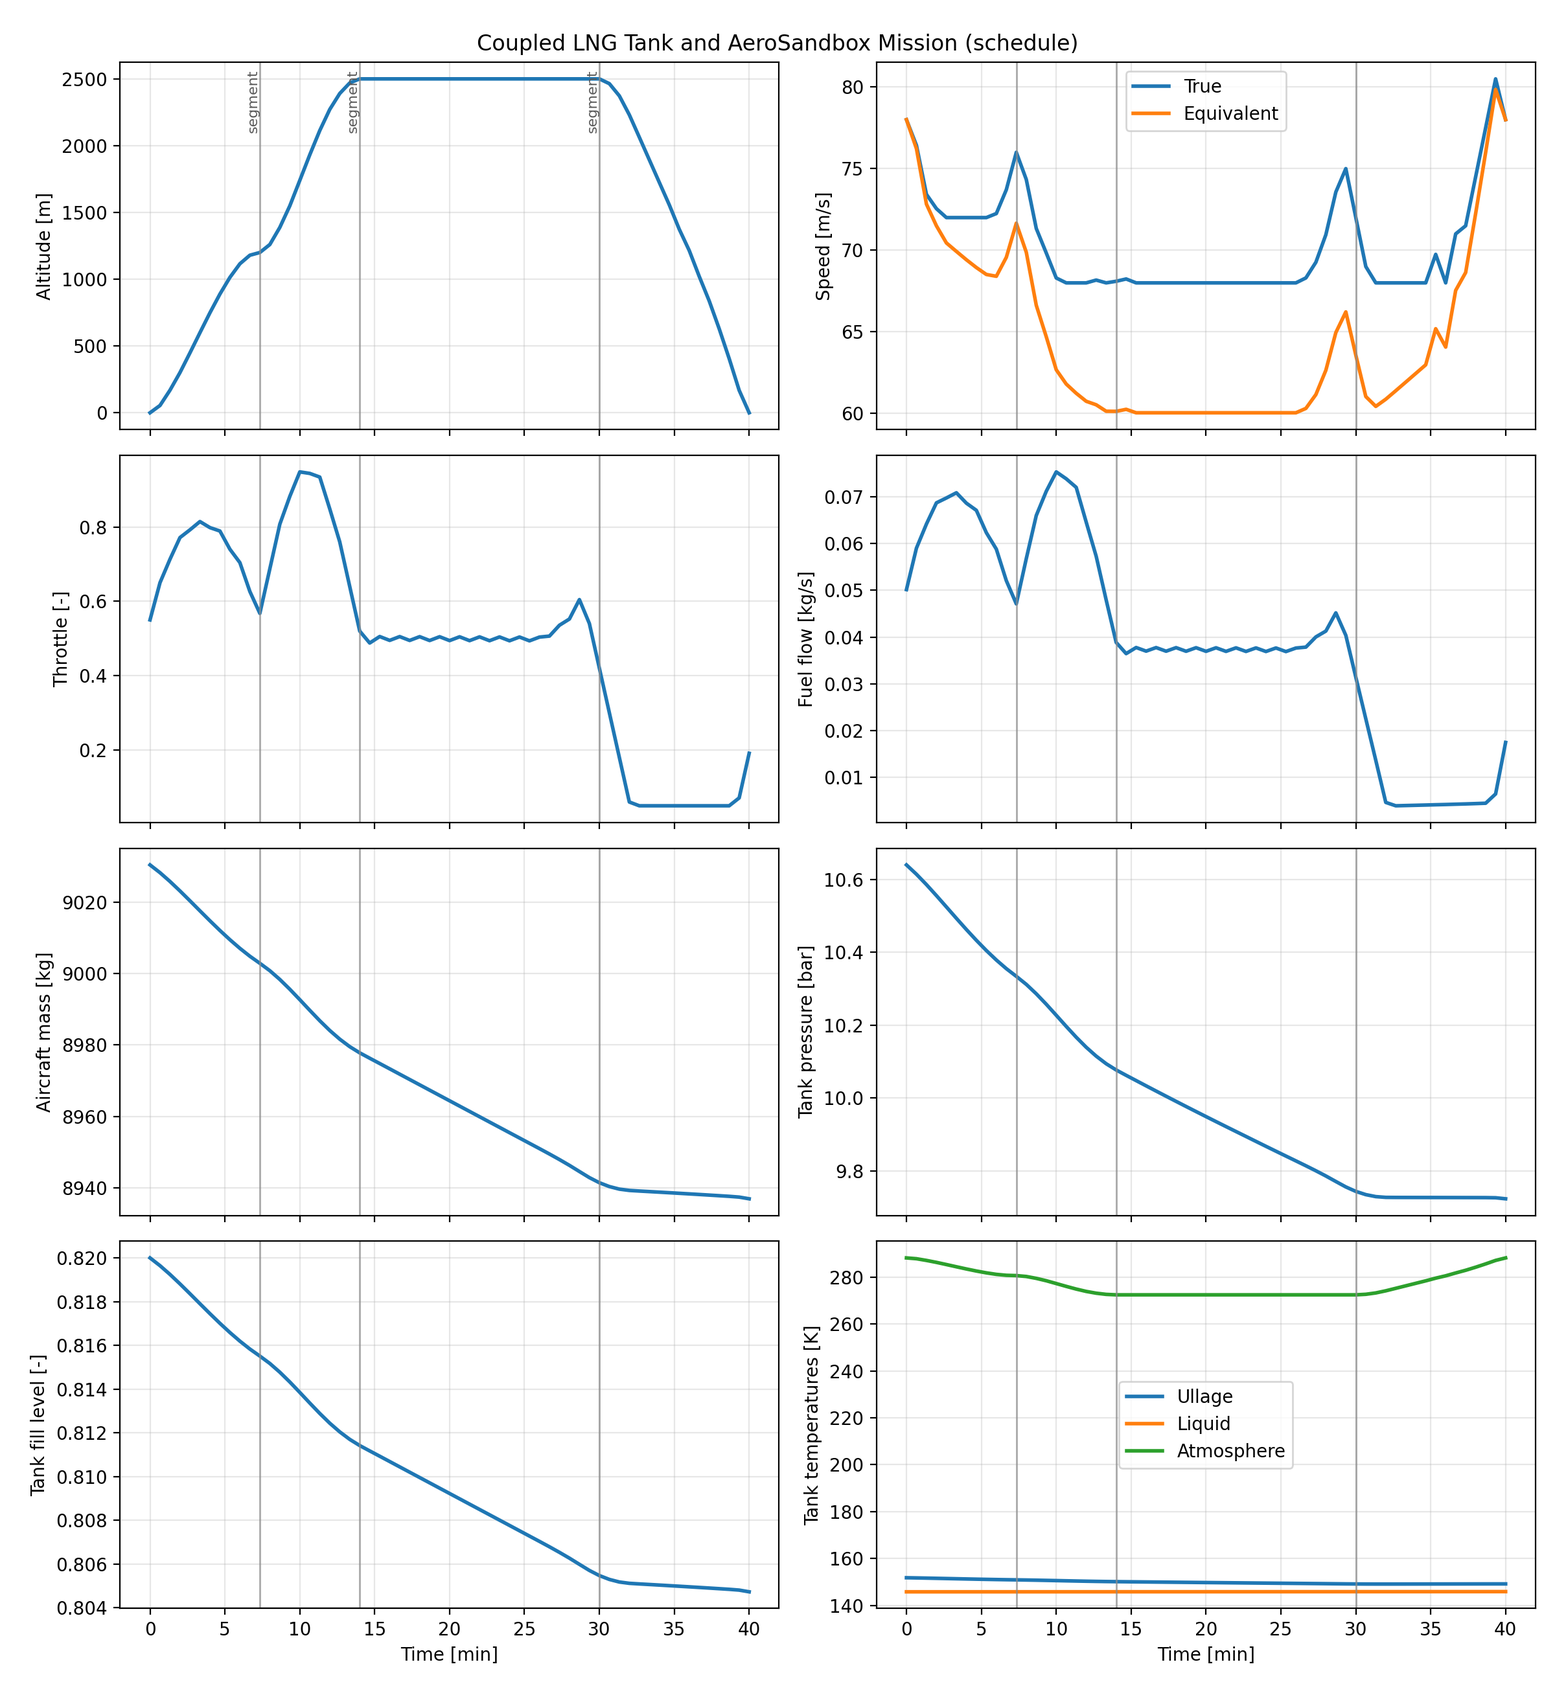
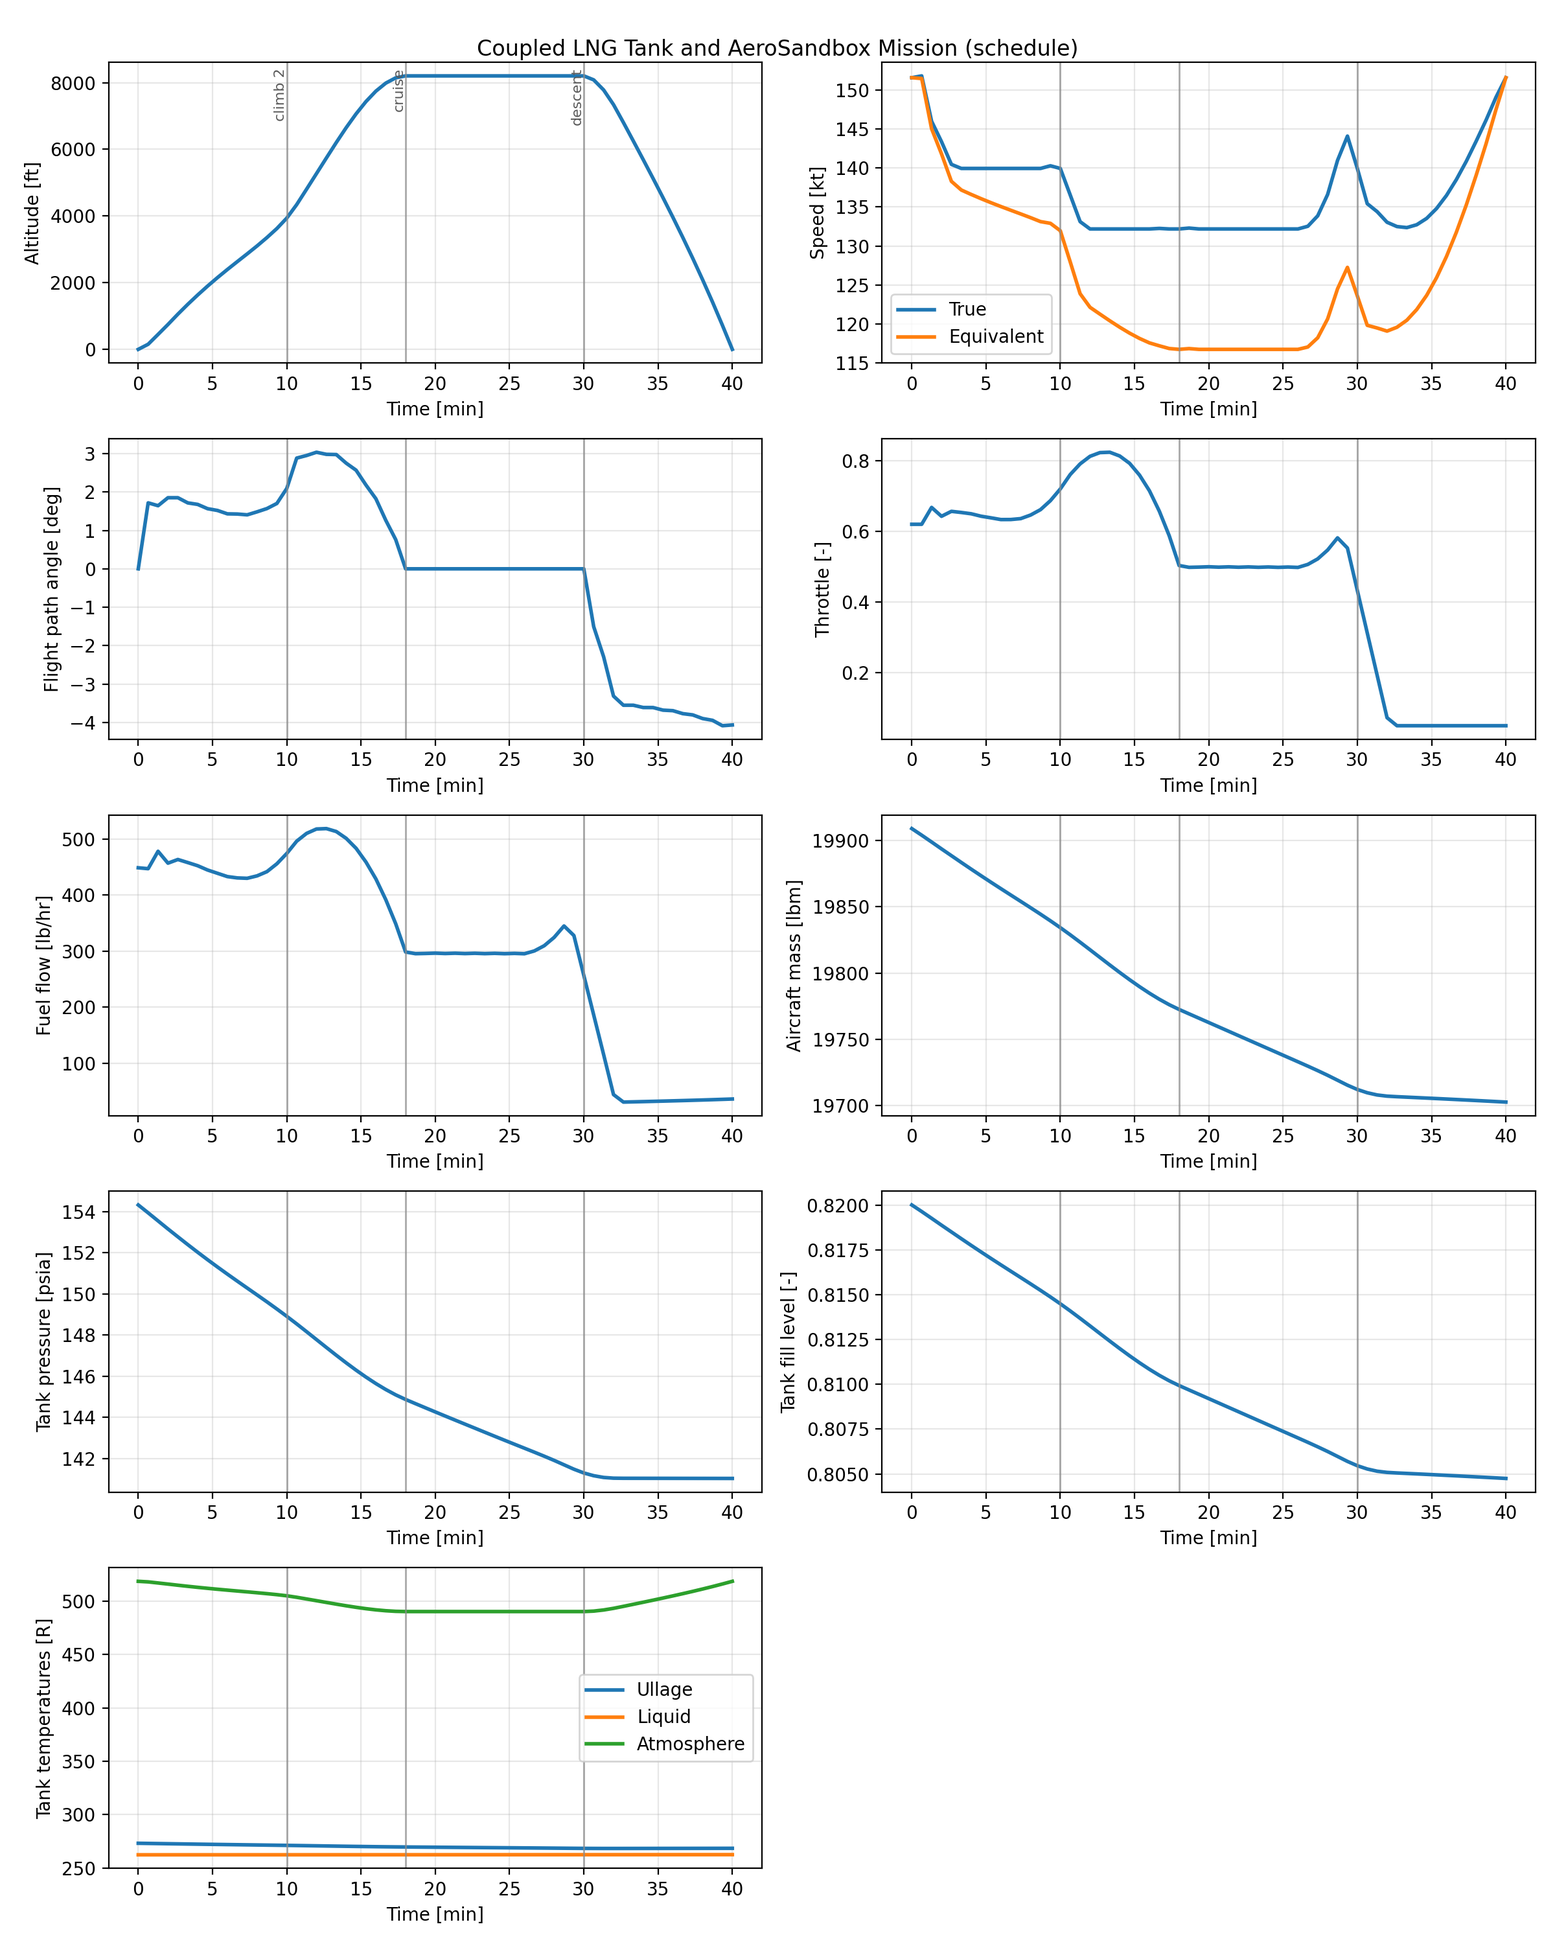
Refine AeroSandbox mission schedules

diff --git a/examples/coupled_lng_aerosandbox_mission.py b/examples/coupled_lng_aerosandbox_mission.py
@@ -32,6 +32,13 @@ from lngtank.asb_properties_interpolants import CoolPropGridInterpolants
 OUTPUT_DIR = Path(__file__).resolve().parents[1] / "outputs"
 DEFAULT_SCHEDULE_PATH = Path(__file__).resolve().parent / "mission_lng_4seg.json"
 G = 9.80665
+M_TO_FT = 3.280839895
+MPS_TO_KT = 1.943844492
+M_TO_NMI = 1 / 1852.0
+KG_TO_LBM = 2.2046226218
+KGPS_TO_LBHR = KG_TO_LBM * 3600.0
+PA_TO_PSIA = 1 / 6894.757293
+K_TO_R = 1.8
 
 
 @dataclass(frozen=True)
@@ -58,7 +65,7 @@ class MissionSpec:
     initial_speed: float = 78.0  # m/s
     final_speed: float = 78.0  # m/s
     max_accel: float = 2.0  # m/s^2
-    max_gamma_rate: float = 0.2  # rad/s
+    max_gamma_rate: float = onp.radians(0.05)  # rad/s, 0.05 deg/s
     p_heater: float = 1000.0  # W
     initial_fill: float = 0.82
     initial_pressure: float = 1.064e6  # Pa
@@ -117,13 +124,15 @@ class MissionSegment:
 @dataclass(frozen=True)
 class MissionSchedule:
     mission_name: str
-    duration_s: float
+    duration_s: float | None
+    duration_guess_s: float
+    duration_bounds_s: tuple[float, float] | None
     range_m: float
     num_nodes: int
     initial_altitude_m: float
     initial_speed_m_s: float
     final_altitude_m: float
-    final_speed_m_s: float
+    final_speed_m_s: float | None
     segments: tuple[MissionSegment, ...]
 
     @classmethod
@@ -132,15 +141,22 @@ class MissionSchedule:
             data = json.load(stream)
         initial = data.get("initial", {})
         final = data.get("final", {})
+        duration_s = data.get("duration_s")
+        duration_guess_s = data.get("duration_guess_s", duration_s)
+        if duration_guess_s is None:
+            raise ValueError("Schedule must define either duration_s or duration_guess_s.")
+        duration_bounds_s = data.get("duration_bounds_s")
         return cls(
             mission_name=data.get("mission_name", Path(path).stem),
-            duration_s=float(data["duration_s"]),
+            duration_s=float(duration_s) if duration_s is not None else None,
+            duration_guess_s=float(duration_guess_s),
+            duration_bounds_s=tuple(float(value) for value in duration_bounds_s) if duration_bounds_s else None,
             range_m=float(data["range_m"]),
             num_nodes=int(data.get("num_nodes", 61)),
             initial_altitude_m=float(initial.get("altitude_m", 0.0)),
             initial_speed_m_s=float(initial["speed_m_s"]),
             final_altitude_m=float(final.get("altitude_m", 0.0)),
-            final_speed_m_s=float(final["speed_m_s"]),
+            final_speed_m_s=float(final["speed_m_s"]) if "speed_m_s" in final else None,
             segments=tuple(MissionSegment.from_dict(segment) for segment in data["segments"]),
         )
 
@@ -162,7 +178,7 @@ def smooth_piecewise_altitude(time, duration, cruise_altitude):
 def schedule_to_mission_spec(schedule: MissionSchedule, base: MissionSpec = MissionSpec()):
     return MissionSpec(
         num_nodes=schedule.num_nodes,
-        duration=schedule.duration_s,
+        duration=schedule.duration_guess_s,
         range=schedule.range_m,
         cruise_altitude=max(
             [base.cruise_altitude]
@@ -171,7 +187,7 @@ def schedule_to_mission_spec(schedule: MissionSchedule, base: MissionSpec = Miss
         cruise_speed=base.cruise_speed,
         end_of_cruise_range_fraction=base.end_of_cruise_range_fraction,
         initial_speed=schedule.initial_speed_m_s,
-        final_speed=schedule.final_speed_m_s,
+        final_speed=schedule.final_speed_m_s if schedule.final_speed_m_s is not None else base.final_speed,
         max_accel=base.max_accel,
         max_gamma_rate=base.max_gamma_rate,
         p_heater=base.p_heater,
@@ -208,9 +224,13 @@ def segment_end_indices(schedule: MissionSchedule, time):
     return end_indices
 
 
-def apply_value_constraint(opti, dyn, throttle, key, selection, value, equality=True):
+def apply_value_constraint(opti, dyn, throttle, key, selection, value, equality=True, rho=None, rho0=None):
     if key in {"speed_m_s", "speed"}:
         expr = dyn.speed[selection]
+    elif key in {"equivalent_speed_m_s", "eas_m_s", "eas"}:
+        if rho is None or rho0 is None:
+            raise ValueError("Equivalent airspeed constraints require atmosphere density.")
+        expr = dyn.speed[selection] * (rho[selection] / rho0) ** 0.5
     elif key in {"altitude_m", "altitude"}:
         expr = dyn.altitude[selection]
     elif key in {"distance_m", "range_m", "x_m", "x_e"}:
@@ -229,17 +249,30 @@ def apply_value_constraint(opti, dyn, throttle, key, selection, value, equality=
         return expr, value
 
 
-def apply_schedule_constraints(opti, dyn, throttle, schedule: MissionSchedule, time):
+def segment_constraint_slice(key, start, end_index):
+    first_index = start if start == 0 and key in {"power_fraction", "throttle"} else start + 1
+    return slice(first_index, end_index + 1)
+
+
+def segment_plot_label(segment, index):
+    segment_type = segment.segment_type.replace("_", " ").strip()
+    if segment_type == "climb":
+        return f"climb {index + 1}"
+    return segment_type or f"segment {index + 1}"
+
+
+def apply_schedule_constraints(opti, dyn, throttle, schedule: MissionSchedule, time, rho=None, rho0=None):
     end_indices = segment_end_indices(schedule, time)
     opti.subject_to(
         [
             dyn.altitude[0] == schedule.initial_altitude_m,
             dyn.speed[0] == schedule.initial_speed_m_s,
             dyn.altitude[-1] == schedule.final_altitude_m,
-            dyn.speed[-1] == schedule.final_speed_m_s,
             dyn.x_e[-1] == schedule.range_m,
         ]
     )
+    if schedule.final_speed_m_s is not None:
+        opti.subject_to(dyn.speed[-1] == schedule.final_speed_m_s)
 
     start = 0
     for segment, end_index in zip(schedule.segments, end_indices):
@@ -254,19 +287,49 @@ def apply_schedule_constraints(opti, dyn, throttle, schedule: MissionSchedule, t
         if end.gamma_deg is not None:
             opti.subject_to(dyn.gamma[endpoint] == onp.radians(end.gamma_deg))
 
-        path_start = start + 1 if start > 0 else start
-        path_stop = end_index
-        segment_slice = slice(path_start, path_stop)
         for key, value in segment.constraints.fix.items():
-            if path_stop > path_start:
-                apply_value_constraint(opti, dyn, throttle, key, segment_slice, value, equality=True)
+            segment_slice = segment_constraint_slice(key, start, end_index)
+            if segment_slice.stop > segment_slice.start:
+                apply_value_constraint(
+                    opti,
+                    dyn,
+                    throttle,
+                    key,
+                    segment_slice,
+                    value,
+                    equality=True,
+                    rho=rho,
+                    rho0=rho0,
+                )
         for key, value in segment.constraints.minimum.items():
-            if path_stop > path_start:
-                expr, converted = apply_value_constraint(opti, dyn, throttle, key, segment_slice, value, equality=False)
+            segment_slice = segment_constraint_slice(key, start, end_index)
+            if segment_slice.stop > segment_slice.start:
+                expr, converted = apply_value_constraint(
+                    opti,
+                    dyn,
+                    throttle,
+                    key,
+                    segment_slice,
+                    value,
+                    equality=False,
+                    rho=rho,
+                    rho0=rho0,
+                )
                 opti.subject_to(expr >= converted)
         for key, value in segment.constraints.maximum.items():
-            if path_stop > path_start:
-                expr, converted = apply_value_constraint(opti, dyn, throttle, key, segment_slice, value, equality=False)
+            segment_slice = segment_constraint_slice(key, start, end_index)
+            if segment_slice.stop > segment_slice.start:
+                expr, converted = apply_value_constraint(
+                    opti,
+                    dyn,
+                    throttle,
+                    key,
+                    segment_slice,
+                    value,
+                    equality=False,
+                    rho=rho,
+                    rho0=rho0,
+                )
                 opti.subject_to(expr <= converted)
 
         start = end_index
@@ -291,7 +354,19 @@ def build_coupled_problem(
     opti = asb.Opti()
 
     n = mission.num_nodes
-    time = onp.linspace(0.0, mission.duration, n)
+    if mode == "schedule" and schedule.duration_s is None:
+        duration_lower, duration_upper = schedule.duration_bounds_s or (0.5 * mission.duration, 2.0 * mission.duration)
+        duration = opti.variable(
+            init_guess=mission.duration,
+            lower_bound=duration_lower,
+            upper_bound=duration_upper,
+            scale=mission.duration,
+        )
+    else:
+        duration = mission.duration
+    tau = onp.linspace(0.0, 1.0, n)
+    time = tau * duration
+    time_guess = tau * mission.duration
     climb_end = int(0.25 * (n - 1))
     descent_start = int(0.75 * (n - 1))
 
@@ -308,9 +383,9 @@ def build_coupled_problem(
     )
 
     x_guess = onp.linspace(0.0, mission.range, n)
-    z_guess = smooth_piecewise_altitude(time, mission.duration, mission.cruise_altitude)
+    z_guess = smooth_piecewise_altitude(time_guess, mission.duration, mission.cruise_altitude)
     v_guess = onp.full(n, mission.initial_speed)
-    gamma_guess = onp.gradient(z_guess, time) / mission.initial_speed
+    gamma_guess = onp.gradient(z_guess, time_guess) / mission.initial_speed
     fuel_guess = onp.linspace(0.0, 140.0, n)
     altitude_upper_bound = mission.cruise_altitude if mode in {"segmented", "schedule"} else 1.8 * mission.cruise_altitude
 
@@ -373,9 +448,15 @@ def build_coupled_problem(
         ]
     )
 
+    rho0 = float(asb.Atmosphere(altitude=0.0).density())
+    rho = dyn.op_point.atmosphere.density()
+    t_env = dyn.op_point.atmosphere.temperature()
+    density_ratio = rho / rho0
+
     if mode == "schedule":
-        segment_indices = apply_schedule_constraints(opti, dyn, throttle, schedule, time)
-        opti.subject_to([dyn.gamma[0] == 0.0, dyn.gamma[-1] == 0.0])
+        segment_indices = apply_schedule_constraints(opti, dyn, throttle, schedule, time, rho=rho, rho0=rho0)
+        segment_labels = [segment_plot_label(segment, i) for i, segment in enumerate(schedule.segments)]
+        opti.subject_to(dyn.gamma[0] == 0.0)
     else:
         opti.subject_to(
             [
@@ -402,11 +483,8 @@ def build_coupled_problem(
                 ]
             )
         segment_indices = []
+        segment_labels = []
 
-    rho0 = float(asb.Atmosphere(altitude=0.0).density())
-    rho = dyn.op_point.atmosphere.density()
-    t_env = dyn.op_point.atmosphere.temperature()
-    density_ratio = rho / rho0
     q_dyn = dyn.op_point.dynamic_pressure()
     induced_factor = 1 / (np.pi * aircraft.aspect_ratio * aircraft.oswald_efficiency)
     cd = aircraft.cd0 + induced_factor * cl**2
@@ -490,8 +568,10 @@ def build_coupled_problem(
     return {
         "opti": opti,
         "time": time,
+        "duration": duration,
         "mode": mode,
         "segment_indices": segment_indices,
+        "segment_labels": segment_labels,
         "states": {
             "x": dyn.x_e,
             "altitude": dyn.altitude,
@@ -512,65 +592,74 @@ def build_coupled_problem(
 
 def plot_solution(problem, sol, output_path):
     output_path.parent.mkdir(parents=True, exist_ok=True)
-    time_min = problem["time"] / 60
+    try:
+        time = onp.array(sol.value(problem["time"]), dtype=float)
+    except Exception:
+        time = onp.array(problem["time"], dtype=float)
+    time_min = time / 60
     states = problem["states"]
     aux = problem["aux"]
     segment_indices = problem.get("segment_indices", [])
+    segment_labels = problem.get("segment_labels", [])
 
     values = {
-        "altitude_m": onp.array(sol.value(states["altitude"])),
-        "range_km": onp.array(sol.value(states["x"])) / 1000,
-        "speed_m_s": onp.array(sol.value(states["V"])),
+        "altitude_ft": onp.array(sol.value(states["altitude"])) * M_TO_FT,
+        "range_nmi": onp.array(sol.value(states["x"])) * M_TO_NMI,
+        "speed_kt": onp.array(sol.value(states["V"])) * MPS_TO_KT,
+        "gamma_deg": onp.degrees(onp.array(sol.value(states["gamma"]))),
         "throttle": onp.array(sol.value(states["throttle"])),
-        "mass_kg": onp.array(sol.value(aux["mass"])),
-        "fuel_flow_kg_s": onp.array(sol.value(aux["m_dot_fuel"])),
-        "pressure_bar": onp.array(sol.value(aux["pressure"])) / 1e5,
+        "mass_lbm": onp.array(sol.value(aux["mass"])) * KG_TO_LBM,
+        "fuel_flow_lb_hr": onp.array(sol.value(aux["m_dot_fuel"])) * KGPS_TO_LBHR,
+        "pressure_psia": onp.array(sol.value(aux["pressure"])) * PA_TO_PSIA,
         "fill_level": onp.array(sol.value(aux["fill_level"])),
-        "t_gas_K": onp.array(sol.value(states["T_gas"])),
-        "t_liq_K": onp.array(sol.value(states["T_liq"])),
-        "t_env_K": onp.array(sol.value(aux["t_env"])),
+        "t_gas_R": onp.array(sol.value(states["T_gas"])) * K_TO_R,
+        "t_liq_R": onp.array(sol.value(states["T_liq"])) * K_TO_R,
+        "t_env_R": onp.array(sol.value(aux["t_env"])) * K_TO_R,
     }
-    values["equivalent_speed_m_s"] = values["speed_m_s"] * onp.sqrt(
+    values["equivalent_speed_kt"] = values["speed_kt"] * onp.sqrt(
         onp.array(sol.value(aux["rho"])) / float(aux["rho0"])
     )
 
-    fig, axes = plt.subplots(4, 2, figsize=(12, 13), sharex=True)
+    fig, axes = plt.subplots(5, 2, figsize=(12, 15), sharex=True)
     axes = axes.ravel()
     plots = [
-        ("altitude_m", "Altitude [m]"),
-        ("speed_m_s", "Speed [m/s]"),
+        ("altitude_ft", "Altitude [ft]"),
+        ("speed_kt", "Speed [kt]"),
+        ("gamma_deg", "Flight path angle [deg]"),
         ("throttle", "Throttle [-]"),
-        ("fuel_flow_kg_s", "Fuel flow [kg/s]"),
-        ("mass_kg", "Aircraft mass [kg]"),
-        ("pressure_bar", "Tank pressure [bar]"),
+        ("fuel_flow_lb_hr", "Fuel flow [lb/hr]"),
+        ("mass_lbm", "Aircraft mass [lbm]"),
+        ("pressure_psia", "Tank pressure [psia]"),
         ("fill_level", "Tank fill level [-]"),
-        ("t_gas_K", "Tank temperatures [K]"),
+        ("t_gas_R", "Tank temperatures [R]"),
     ]
 
     for ax, (key, ylabel) in zip(axes, plots):
         ax.plot(time_min, values[key], linewidth=2)
-        if key == "speed_m_s":
+        if key == "speed_kt":
             ax.lines[0].set_label("True")
-            ax.plot(time_min, values["equivalent_speed_m_s"], linewidth=2, label="Equivalent")
+            ax.plot(time_min, values["equivalent_speed_kt"], linewidth=2, label="Equivalent")
             ax.legend(loc="best")
-        if key == "t_gas_K":
-            ax.plot(time_min, values["t_liq_K"], linewidth=2, label="Liquid")
-            ax.plot(time_min, values["t_env_K"], linewidth=2, label="Atmosphere")
+        if key == "t_gas_R":
+            ax.plot(time_min, values["t_liq_R"], linewidth=2, label="Liquid")
+            ax.plot(time_min, values["t_env_R"], linewidth=2, label="Atmosphere")
             ax.lines[0].set_label("Ullage")
             ax.legend(loc="best")
         ax.set_ylabel(ylabel)
+        ax.set_xlabel("Time [min]")
+        ax.tick_params(axis="x", which="both", bottom=True, labelbottom=True)
         ax.grid(True, alpha=0.3)
         for segment_index in segment_indices[:-1]:
             ax.axvline(time_min[segment_index], color="0.55", linewidth=1.0, alpha=0.75)
 
-    for ax in axes[-2:]:
-        ax.set_xlabel("Time [min]")
+    for ax in axes[len(plots) :]:
+        ax.set_visible(False)
     if segment_indices:
-        for segment_index in segment_indices[:-1]:
+        for label, segment_index in zip(segment_labels[1:], segment_indices[:-1]):
             axes[0].text(
                 time_min[segment_index],
                 0.98,
-                "segment",
+                label,
                 transform=axes[0].get_xaxis_transform(),
                 rotation=90,
                 va="top",
@@ -591,11 +680,16 @@ def run_case(mode: str):
     output_path = OUTPUT_DIR / f"lng_coupled_aerosandbox_mission_{mode}.png"
     values = plot_solution(problem, sol, output_path)
 
-    fuel_used = values["mass_kg"][0] - values["mass_kg"][-1]
+    fuel_used = values["mass_lbm"][0] - values["mass_lbm"][-1]
+    try:
+        duration_s = float(sol.value(problem["duration"]))
+    except Exception:
+        duration_s = float(problem["duration"])
     print(f"Coupled LNG AeroSandbox mission solved ({mode})")
-    print(f"Final range: {values['range_km'][-1]:.1f} km")
-    print(f"Fuel and boil-off mass reduction: {fuel_used:.2f} kg")
-    print(f"Final tank pressure: {values['pressure_bar'][-1]:.3f} bar")
+    print(f"Final range: {values['range_nmi'][-1]:.1f} nmi")
+    print(f"Final duration: {duration_s / 60:.2f} min")
+    print(f"Fuel and boil-off mass reduction: {fuel_used:.2f} lbm")
+    print(f"Final tank pressure: {values['pressure_psia'][-1]:.3f} psia")
     print(f"Final fill level: {values['fill_level'][-1]:.4f}")
     print(f"Saved plot: {output_path}")
     return problem, sol, values
